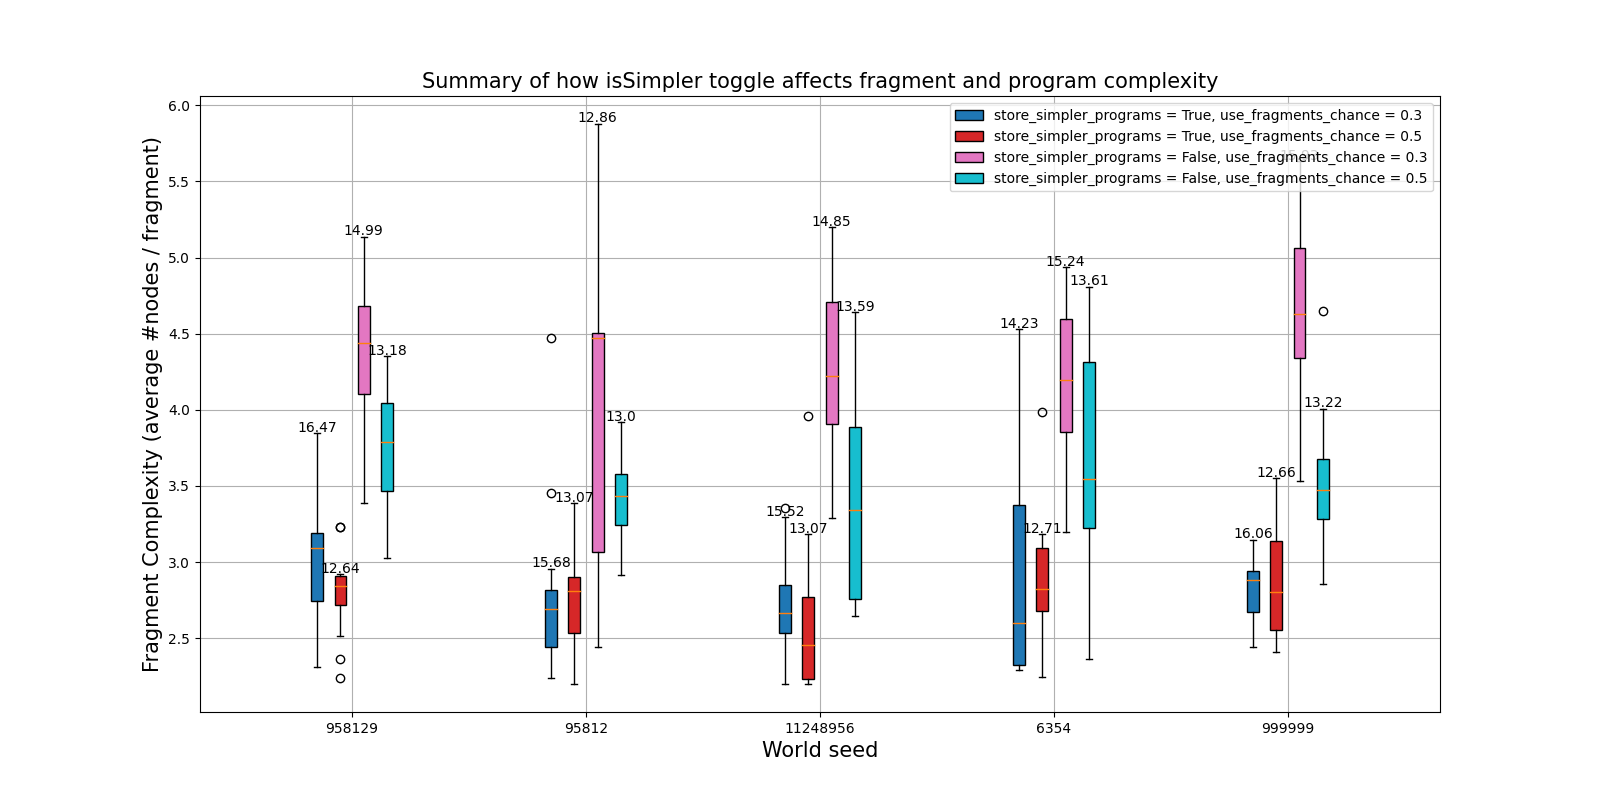
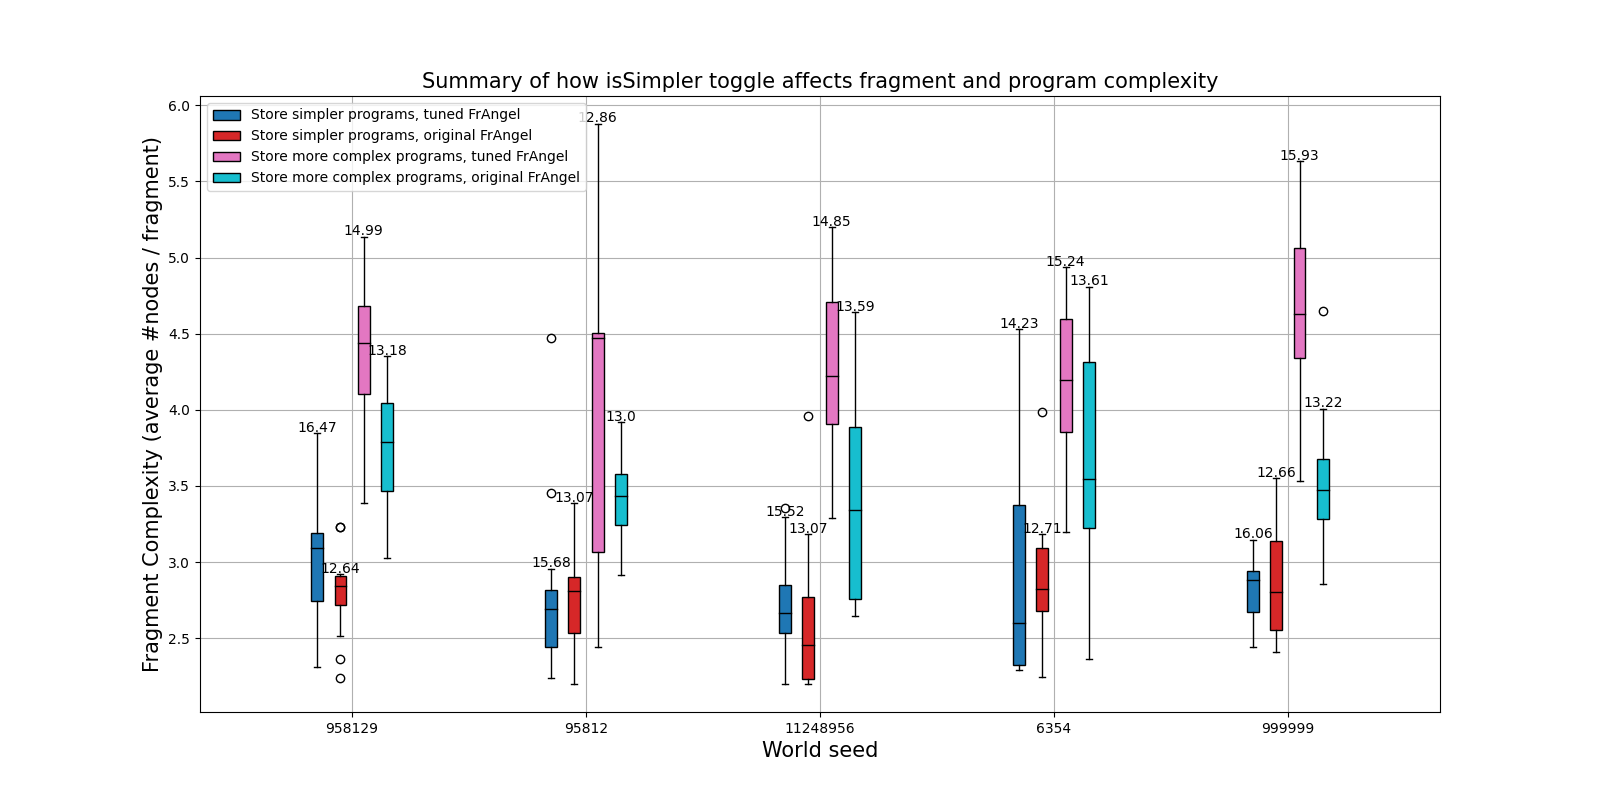
Make median lines on box plots black

Changed region(s): [[0.5938, 0.125, 0.9062, 0.25], [0.125, 0.125, 0.375, 0.25]]

diff --git a/src/minecraft/generate_plots/utils.py b/src/minecraft/generate_plots/utils.py
@@ -224,7 +224,7 @@ def summarize_data_on_config(config_vars, possible_vals, base_exp_dir, seed, out
 
     # Plot boxes
     plt.subplots(figsize=(12, 8)) 
-    plt.boxplot(bar_data, positions=bar_positions, widths = barWidth) 
+    plt.boxplot(bar_data, positions=bar_positions, widths = barWidth, medianprops={'color': 'black'}) 
 
     # Annotate
     for i in range(len(bar_data)):
@@ -285,7 +285,7 @@ def summarize_data_on_seed(config_vars, possible_vals, base_exp_dir, seeds, outp
             bar_positions.append((i + 1) + j * barWidth * 2 - (barWidth if prod_len % 2 == 0 else 0))
     
     # Plot boxes
-    boxplot = plt.boxplot(bar_data, positions=bar_positions, widths = barWidth, patch_artist=True) 
+    boxplot = plt.boxplot(bar_data, positions=bar_positions, widths = barWidth, patch_artist=True, medianprops={'color': 'black'}) 
 
     for patch, color in zip(boxplot['boxes'], colors):
         patch.set_facecolor(color)
